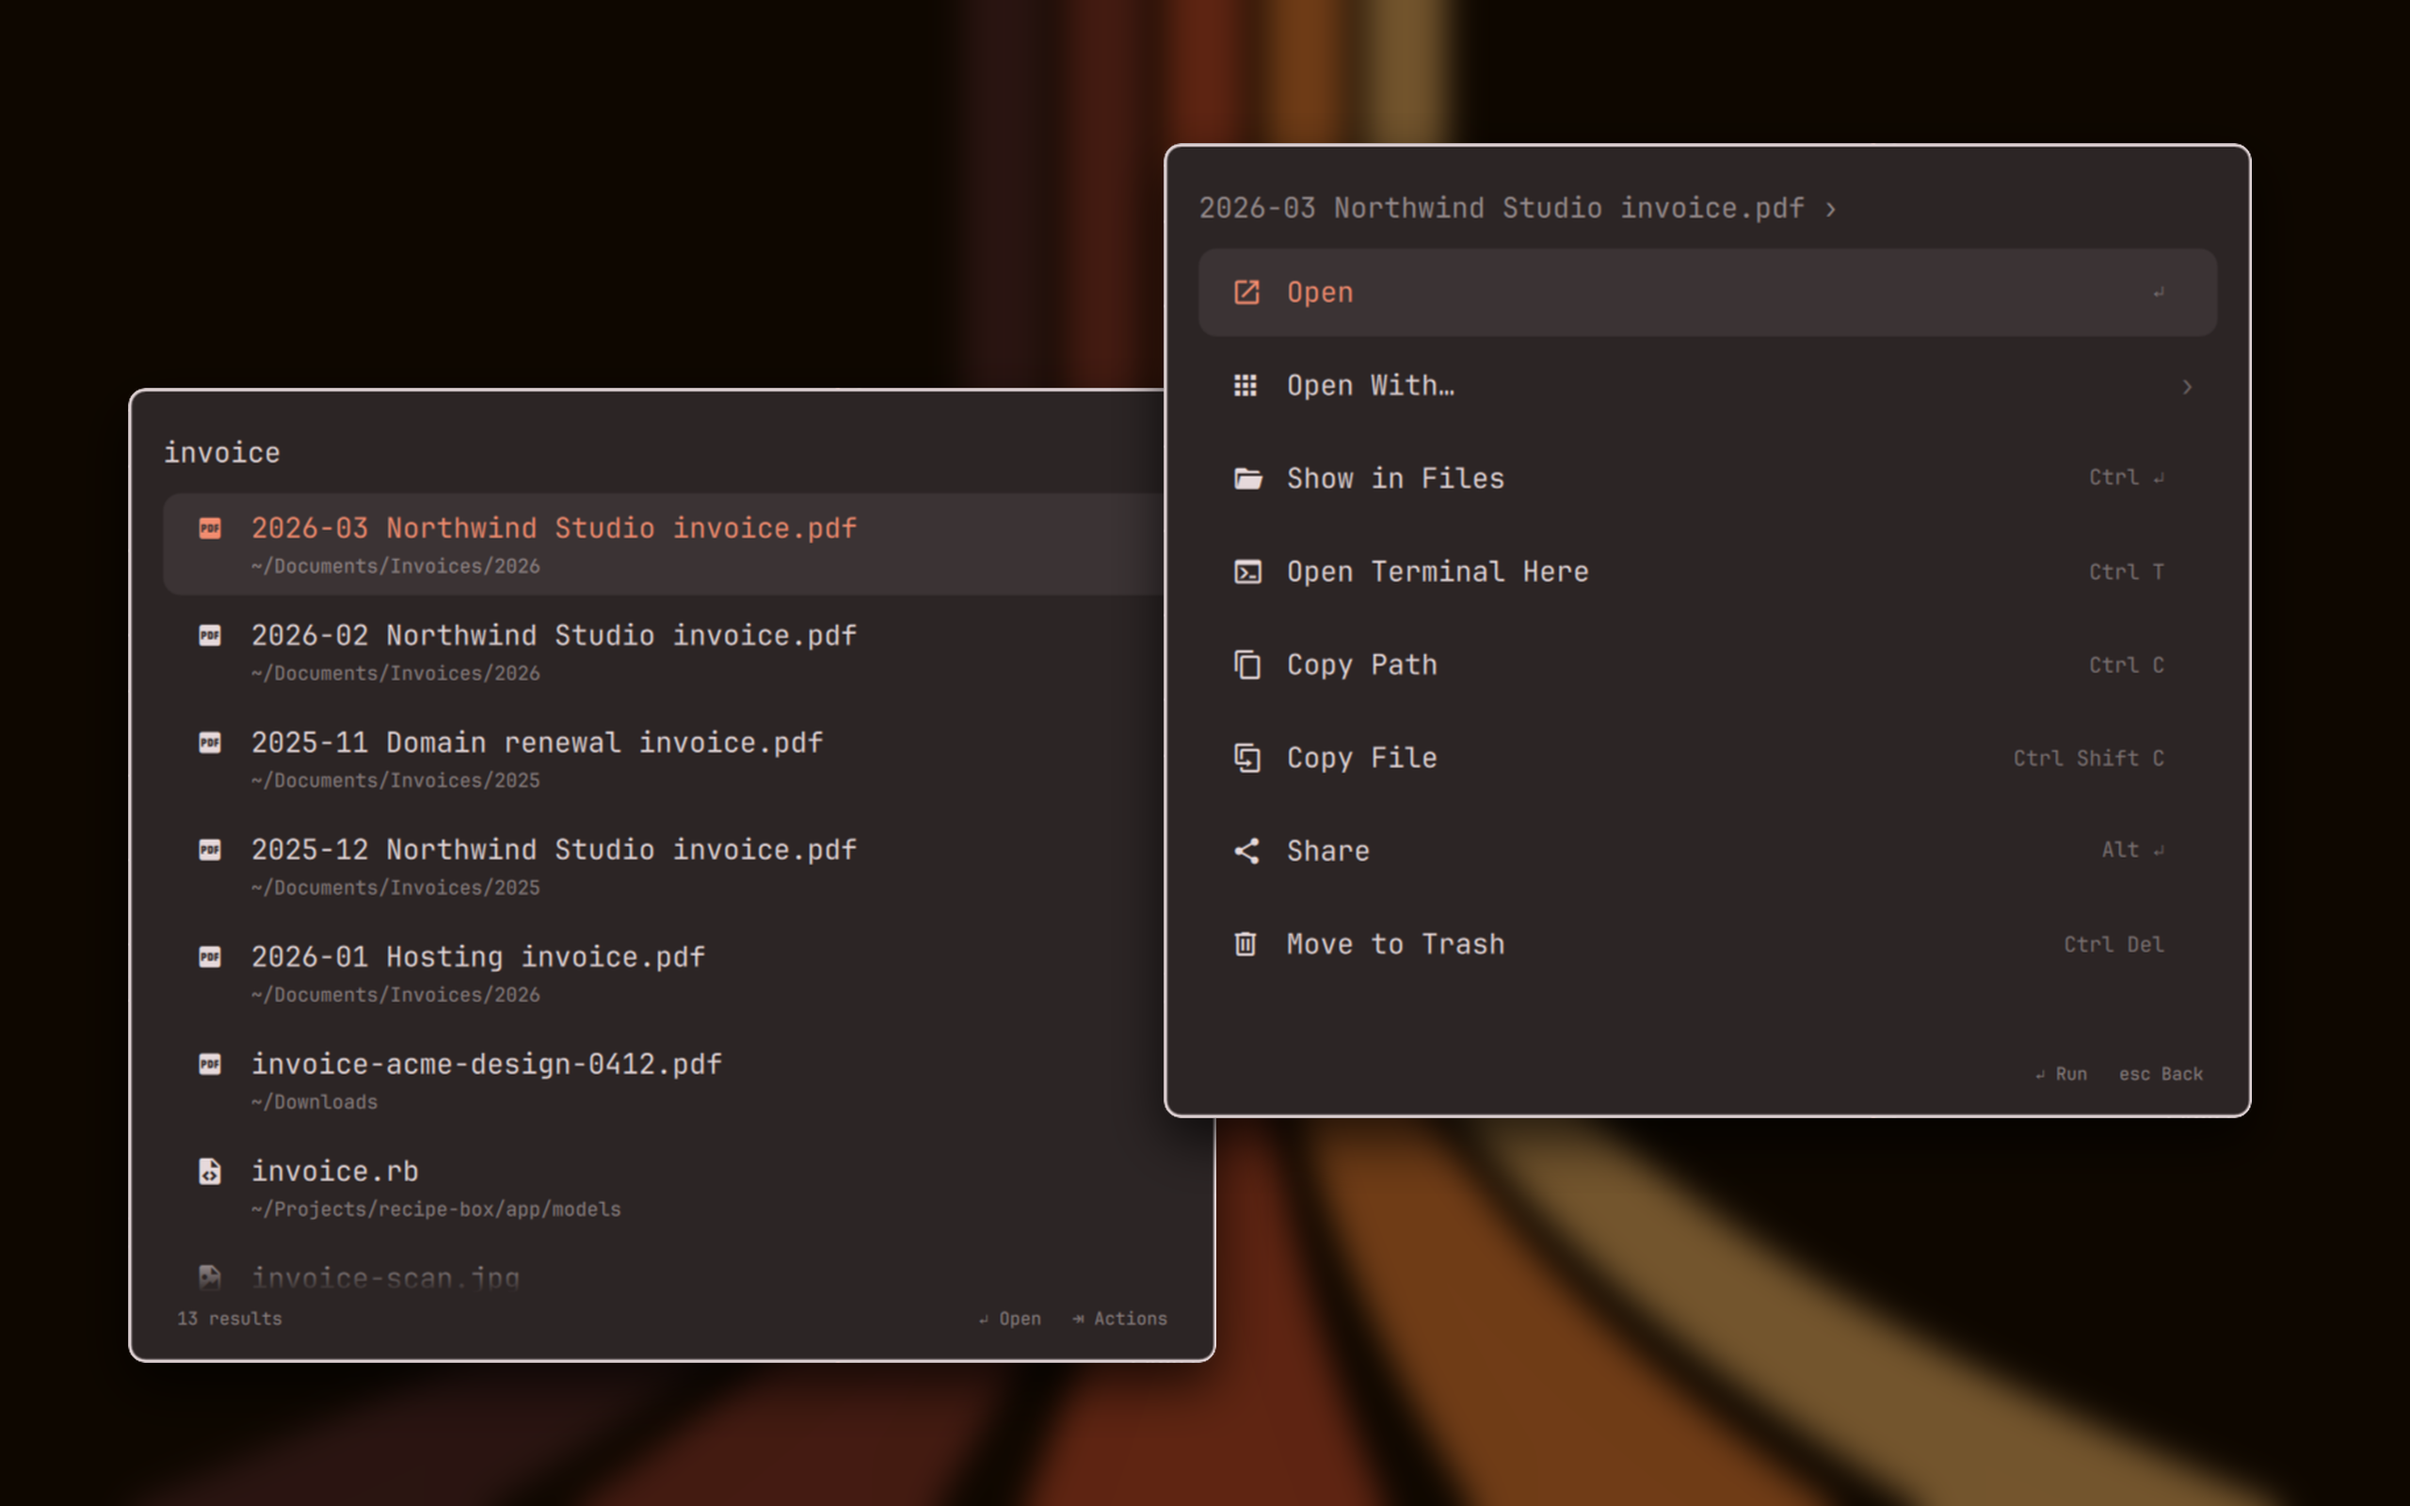
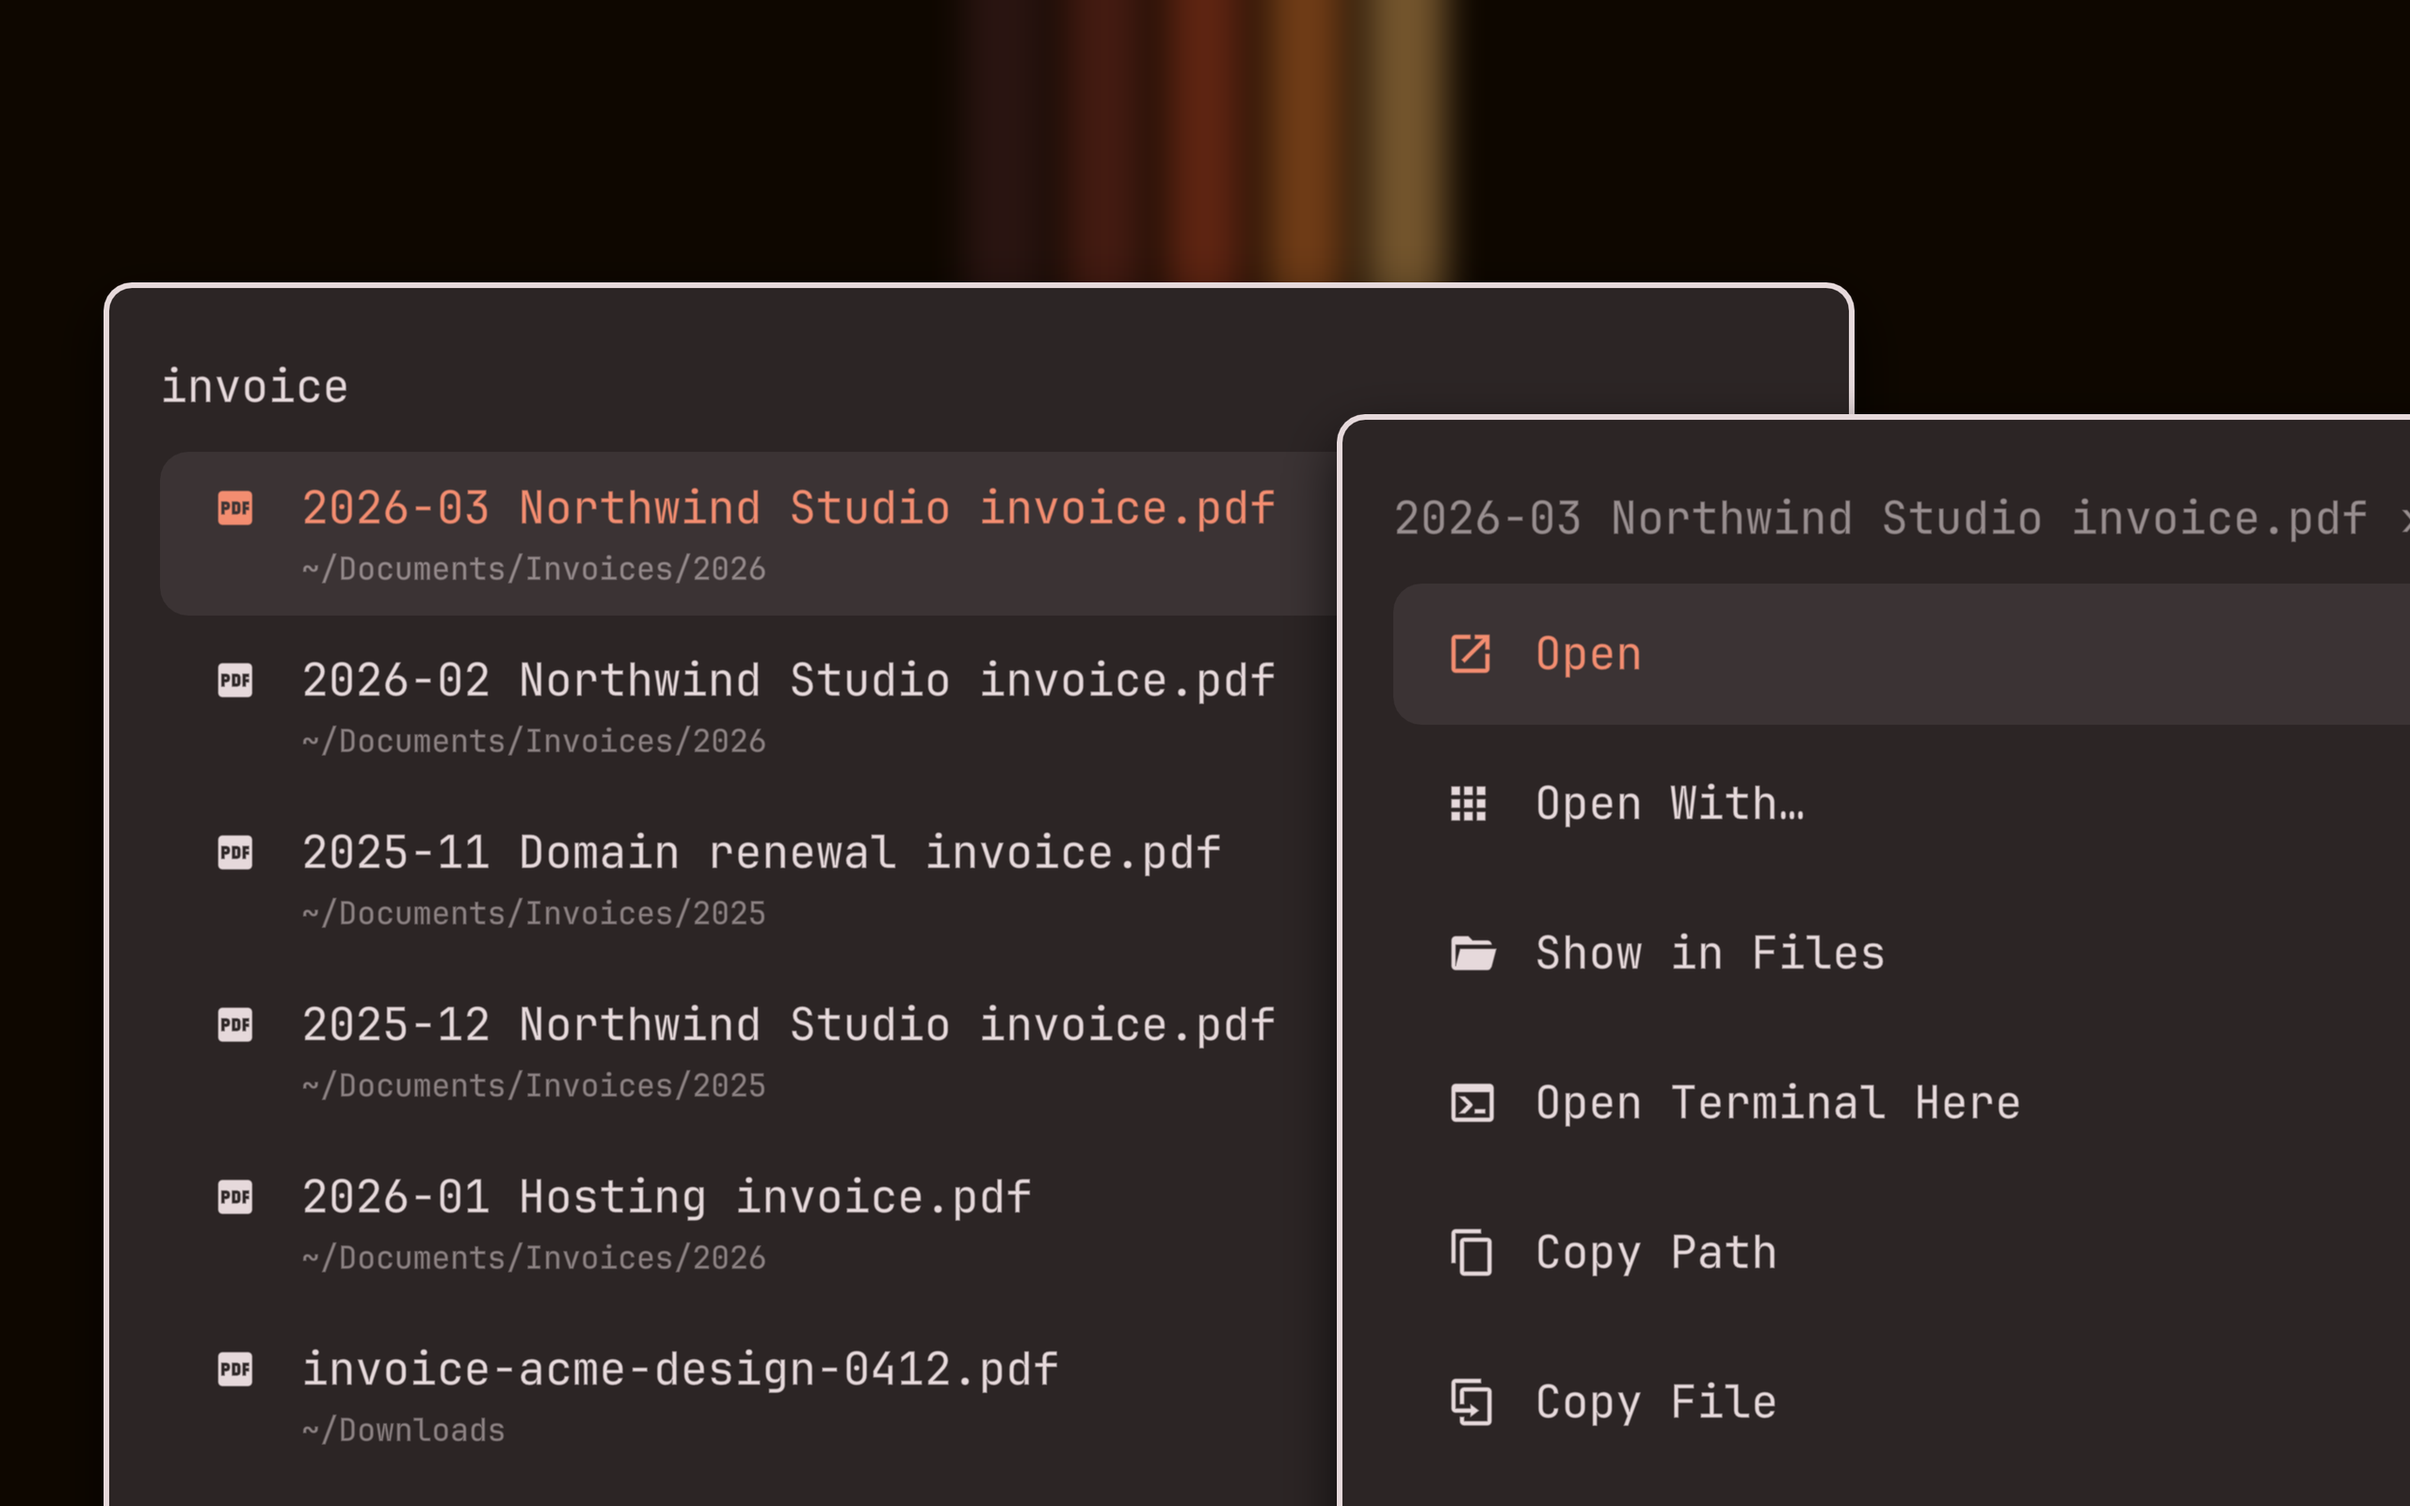
Zoom the marketplace preview in on the results and the actions
The marketplace card shows only a strip from the middle of the preview, so the whole overlay at its old size was too small to read there. The results for "invoice" and the actions panel now show at 2.25 times their on-screen size and run off the edges, with the query, the first results and the first actions in the middle.

tools/render-preview builds the made-up home folder, captures the real overlay searching it at three times its size through tools/preview/shell.qml, in Omarchy's ristretto theme from a private $HOME whatever theme the machine runs, and tools/render-preview-card.py composes the card.

diff --git a/tools/preview/shell.qml b/tools/preview/shell.qml
@@ -1,0 +1,62 @@
+// Renders the real Files overlay searching a made-up home folder, for the
+// marketplace preview. Nothing under the real $HOME is listed or indexed:
+// the overlay is summoned with the demo folder as its root. Run through
+// tools/render-preview.
+import QtQuick
+import Quickshell
+import "plugin" as Plugin
+
+ShellRoot {
+  id: shell
+
+  readonly property string outDir: Quickshell.env("FILES_PREVIEW_OUT")
+  readonly property string demoHome: Quickshell.env("FILES_PREVIEW_HOME")
+  // Three times the on-screen size, so the preview can show the card large
+  // and still sharp.
+  readonly property int grabScale: 3
+
+  Plugin.Files { id: files }
+
+  // The card: the bordered surface the overlay draws its content in.
+  function findCard(item) {
+    if (!item) return null
+    if (item !== files && item.borderSpec !== undefined && item.padding !== undefined) return item
+    var kids = item.data || item.children || []
+    for (var i = 0; i < kids.length; i++) {
+      var found = findCard(kids[i])
+      if (found) return found
+    }
+    return null
+  }
+
+  function save(item, name) {
+    item.grabToImage(function(result) { result.saveToFile(shell.outDir + "/" + name) },
+      Qt.size(item.width * shell.grabScale, item.height * shell.grabScale))
+  }
+
+  function settled() {
+    var state = JSON.parse(files.state())
+    return state.count > 0 && !files.searching && !files.indexing
+  }
+
+  Timer {
+    interval: 600
+    running: true
+    repeat: true
+    property int phase: 0
+    onTriggered: {
+      phase++
+      if (phase === 1) files.open(JSON.stringify({ root: shell.demoHome, query: "invoice" }))
+      // Waits for the index and the search to finish before grabbing.
+      if ((phase === 3 || phase === 5) && !shell.settled()) {
+        phase--
+        return
+      }
+      if (phase === 3) shell.save(shell.findCard(files), "search.png")
+      if (phase === 4) files.openActions(files.currentItem)
+      if (phase === 5) shell.save(shell.findCard(files), "actions.png")
+      if (phase === 6) files.close()
+      if (phase === 7) Qt.quit()
+    }
+  }
+}

diff --git a/tools/render-preview-card.py b/tools/render-preview-card.py
@@ -1,0 +1,56 @@
+#!/usr/bin/env python3
+"""Composes preview.png, the marketplace card, from the overlay captures.
+
+Run tools/render-preview, which captures the overlay and calls this with the
+folder holding search.png and actions.png, both three times the on-screen
+size. The card is the plugin itself rather than words about it: the results
+for "invoice" and the actions panel for the first one, over Omarchy's
+ristretto wallpaper.
+
+The marketplace card shows only a strip from the middle, about 2.7 times as
+wide as it is tall, and the websites crop to 16:9. So the cards are shown
+large and run off the edges, with the query, the first results and the first
+actions in the middle, where every crop keeps them."""
+import sys
+from pathlib import Path
+from PIL import Image, ImageDraw, ImageEnhance, ImageFilter
+
+repo = Path(__file__).resolve().parent.parent
+shots = Path(sys.argv[1]) if len(sys.argv) > 1 else repo / "screenshots"
+wallpaper = Path("/usr/share/omarchy/themes/ristretto/backgrounds/0-launch.png")
+W, H = 2560, 1600
+# Of the three-times captures: the cards show at 2.25 times their on-screen
+# size, about 1.1 times a HiDPI screen's own pixels.
+SCALE = 0.75
+
+
+def cover(image, width, height):
+    scale = max(width / image.width, height / image.height)
+    image = image.resize((round(image.width * scale), round(image.height * scale)), Image.LANCZOS)
+    left, top = (image.width - width) // 2, (image.height - height) // 2
+    return image.crop((left, top, left + width, top + height))
+
+
+def scaled(path):
+    image = Image.open(path).convert("RGBA")
+    return image.resize((round(image.width * SCALE), round(image.height * SCALE)), Image.LANCZOS)
+
+
+# The wallpaper, softened and dimmed so the cards read first.
+back = cover(Image.open(wallpaper).convert("RGB"), W, H).filter(ImageFilter.GaussianBlur(18))
+card = ImageEnhance.Brightness(back).enhance(0.5).convert("RGBA")
+
+
+def place(image, x, y):
+    global card
+    shadow = Image.new("RGBA", (W, H), (0, 0, 0, 0))
+    ImageDraw.Draw(shadow).rounded_rectangle((x, y + 24, x + image.width, y + image.height + 24), 30, fill=(0, 0, 0, 180))
+    card = Image.alpha_composite(card, shadow.filter(ImageFilter.GaussianBlur(28)))
+    card.alpha_composite(image, (x, y))
+
+
+place(scaled(shots / "search.png"), 110, 300)
+place(scaled(shots / "actions.png"), 1420, 440)
+
+card.convert("RGB").save(repo / "preview.png", optimize=True)
+print("wrote", repo / "preview.png", card.size)
